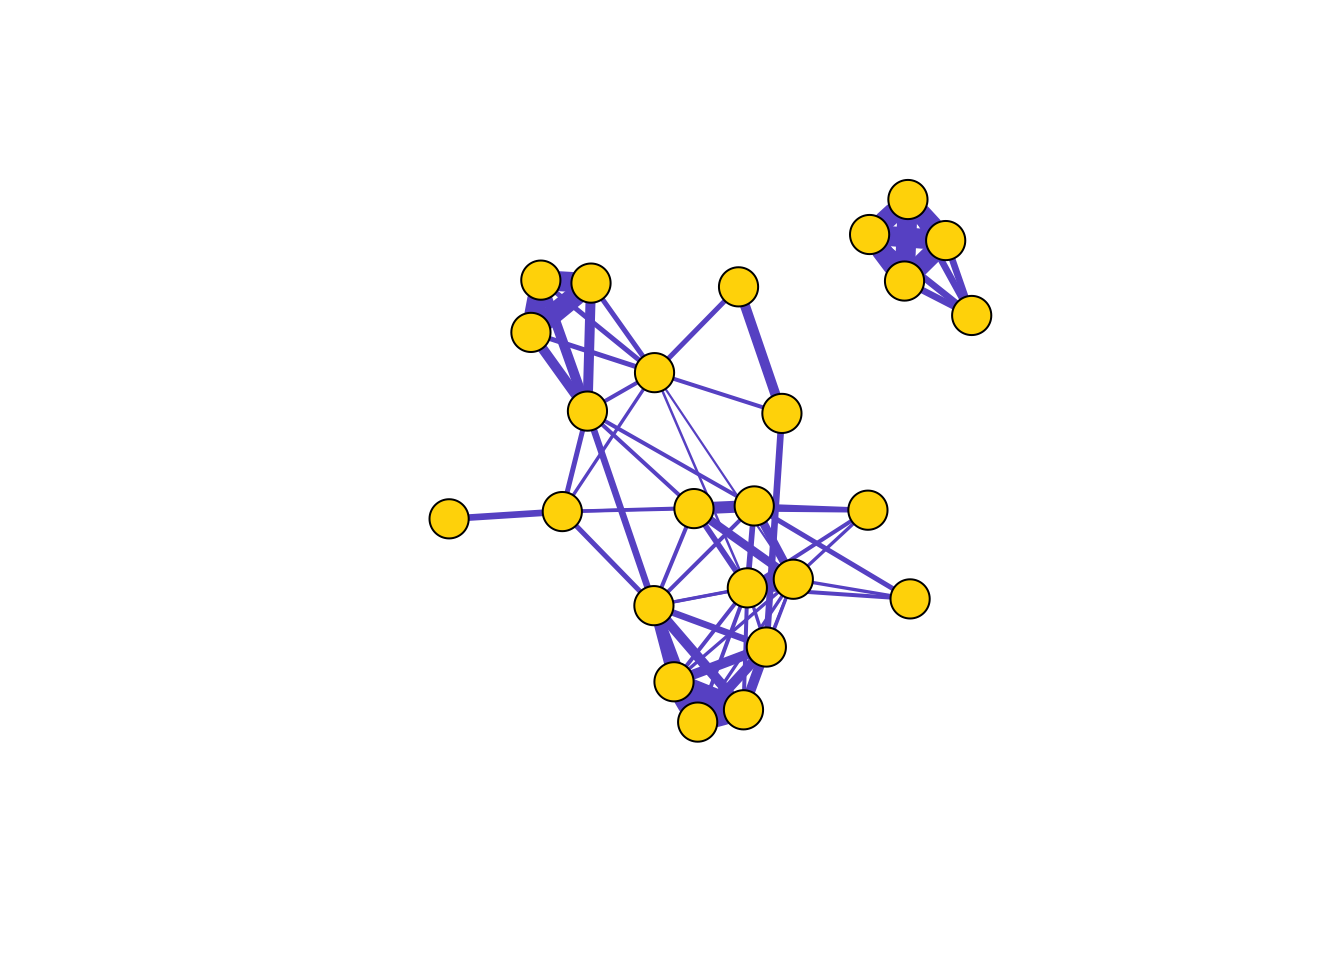
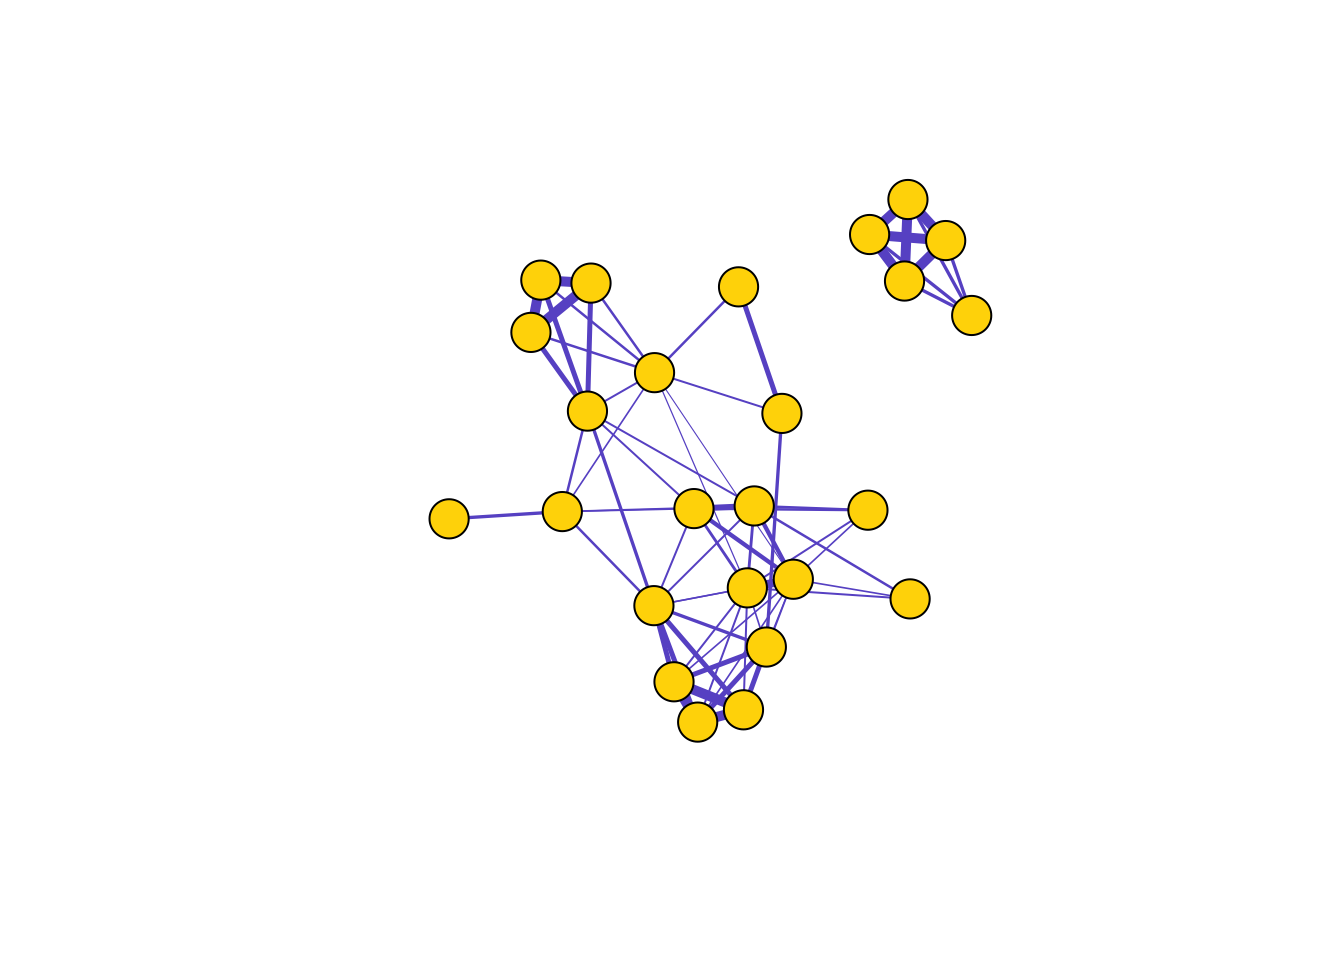
updates

diff --git a/05_measuring.html b/05_measuring.html
@@ -207,6 +207,14 @@ $(document).ready(function () {
 
 </div>
 
+<div id="TOC">
+<ul>
+<li><a href="#centrality-measures-i.e.-node-level-measures">5.1 Centrality Measures (i.e., node-level measures)</a><ul>
+<li><a href="#degree-and-strength">5.1.1 Degree and Strength</a></li>
+<li><a href="#betweenness">5.1.2 Betweenness</a></li>
+</ul></li>
+</ul>
+</div>
 
 <p>Now that we have a handle on visualizing a network and the basics of relevant types of networks, we will go about the task of quantitatively describing its characteristics. There are multiple levels at which we can measure and describe networks:</p>
 <ul>
@@ -224,8 +232,90 @@ g=graph_from_adjacency_matrix(mat, &quot;undirected&quot;, weighted=T) #create a
 <pre class="r"><code># plot the network
 set.seed(10)
 l=layout_with_fr(g)
-plot(g, layout=l, vertex.label=&quot;&quot;, vertex.color=&quot;gold&quot;, edge.color=&quot;slateblue&quot;, edge.width=E(g)$weight*10)</code></pre>
+plot(g, layout=l, vertex.label=&quot;&quot;, vertex.color=&quot;gold&quot;, edge.color=&quot;slateblue&quot;, edge.width=E(g)$weight*5)</code></pre>
 <p><img src="05_measuring_files/figure-html/unnamed-chunk-2-1.png" width="672" /></p>
+<div id="centrality-measures-i.e.-node-level-measures" class="section level2">
+<h2>5.1 Centrality Measures (i.e., node-level measures)</h2>
+<p>Centrality is a general term that relates to measures of a node’s position in the network. There are many such centrality measures, and it can be a daunting task to wade through all of the different ways to measure a node’s importance in the network. Here, we will introduce just a few examples.</p>
+<div id="degree-and-strength" class="section level3">
+<h3>5.1.1 Degree and Strength</h3>
+<p>Let’s start with the most straight-forward centrality metric: <strong>degree centrality</strong>. Degree centrality is simply the <em>number of edges connected to a given node</em>. In a social network, this might mean the number of friends an individual has. We can calculate degree centrality with a simple function:</p>
+<pre class="r"><code>degree(g)</code></pre>
+<pre><code>## 23820 23726 23831 23763 23772 23770 23771 23777 23774 23860 23779 23773 
+##     4     4     4     4     6     8    10     7     8     9     4    11 
+## 23862 23857 23871 23853 23732 23734 23756 23759 23768 23758 23781 23815 
+##    11     2     3     4     3     1     6     6     6     7     4     4 
+## 23809 
+##     4</code></pre>
+<p>Let’s visualize what this means by varying the node sizes proportional to degree centrality.</p>
+<pre class="r"><code>set.seed(10)
+de=degree(g)
+plot(g, vertex.label=&quot;&quot;, vertex.color=&quot;gold&quot;, edge.color=&quot;slateblue&quot;, vertex.size=de*2, edge.width=E(g)$weight*5)</code></pre>
+<p><img src="05_measuring_files/figure-html/unnamed-chunk-4-1.png" width="672" /></p>
+<p>In weighted networks, we can also <strong>node strength</strong>, which is the sum of the weights of edges connected to the node. Let’s calculate node strength and plot the node sizes as proportional to these values.</p>
+<pre class="r"><code>set.seed(10)
+st=strength(g)
+plot(g,  vertex.label=&quot;&quot;, vertex.color=&quot;gold&quot;, edge.color=&quot;slateblue&quot;, edge.width=E(g)$weight*5, vertex.size=st*5)</code></pre>
+<p><img src="05_measuring_files/figure-html/unnamed-chunk-5-1.png" width="672" /></p>
+<p>Compare the relative node sizes when plotting by <strong>degree</strong> vs. <strong>strength</strong>. What differences do you notice?</p>
+</div>
+<div id="betweenness" class="section level3">
+<h3>5.1.2 Betweenness</h3>
+<p>Let’s now do the same for <strong>betweenness centrality</strong>, which is defined as <em>the number of geodesic paths (shortest paths) that go through a given node</em>. Nodes with high betweenness might be influential in a network if, for example, they capture the most amount of information flowing through the network because the information tends to flow through them. Here, we use the normalized version of betweenness.</p>
+<pre class="r"><code>be=betweenness(g, normalized=T)
+plot(g,  vertex.label=&quot;&quot;, vertex.color=&quot;gold&quot;, edge.color=&quot;slateblue&quot;, vertex.size=be*50, edge.width=E(g)$weight*5)</code></pre>
+<p><img src="05_measuring_files/figure-html/unnamed-chunk-6-1.png" width="672" /></p>
+<p>You can see that there are three nodes that have qualitatively higher betweenness values than all other nodes in the network. One way to interpret this is that these are nodes that tend to act as “bridges” between different clusters of nodes in the network (but of course, this is only sample data).</p>
+<p>What does this say about the importance of these nodes? Well, that depends on the network and the questions–in particular how you might quantify ‘importance’ in your network.</p>
+<p>Here’s a short list of some commonly-used centrality measures:</p>
+<table style="width:86%;">
+<colgroup>
+<col width="20%" />
+<col width="15%" />
+<col width="50%" />
+</colgroup>
+<thead>
+<tr class="header">
+<th>Centrality Measure</th>
+<th>Function</th>
+<th>Description</th>
+</tr>
+</thead>
+<tbody>
+<tr class="odd">
+<td>degree</td>
+<td><code>degree()</code></td>
+<td>Number of edges connected to node</td>
+</tr>
+<tr class="even">
+<td>strength</td>
+<td><code>graph.strength()</code></td>
+<td>Sum of edge weights connected to a node (aka <em>weighted degree</em>)</td>
+</tr>
+<tr class="odd">
+<td>betweenness</td>
+<td><code>betweenness()</code></td>
+<td>Number of geodesic paths that go through a given node</td>
+</tr>
+<tr class="even">
+<td>closeness</td>
+<td><code>closeness()</code></td>
+<td>Number of steps required to access every other node from a given node</td>
+</tr>
+<tr class="odd">
+<td>eigenvector centrality</td>
+<td><code>eigen_centrality()</code></td>
+<td>Values of the first eigenvector of the graph adjacency matrix. The values are high for vertices that are connected to many other vertices that are, in turn, connected many others, etc.</td>
+</tr>
+<tr class="even">
+<td>————–</td>
+<td>———-</td>
+<td>———————————–</td>
+</tr>
+</tbody>
+</table>
+</div>
+</div>
 
 
 
